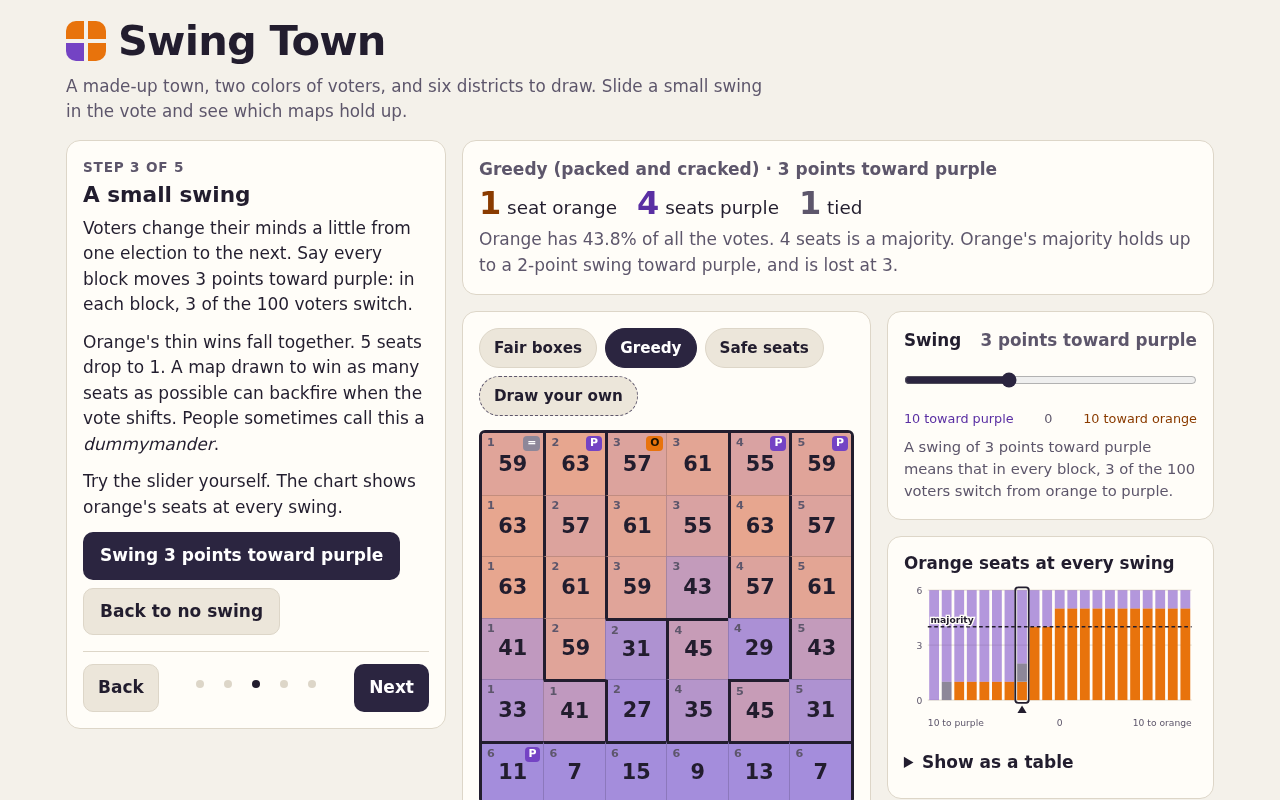
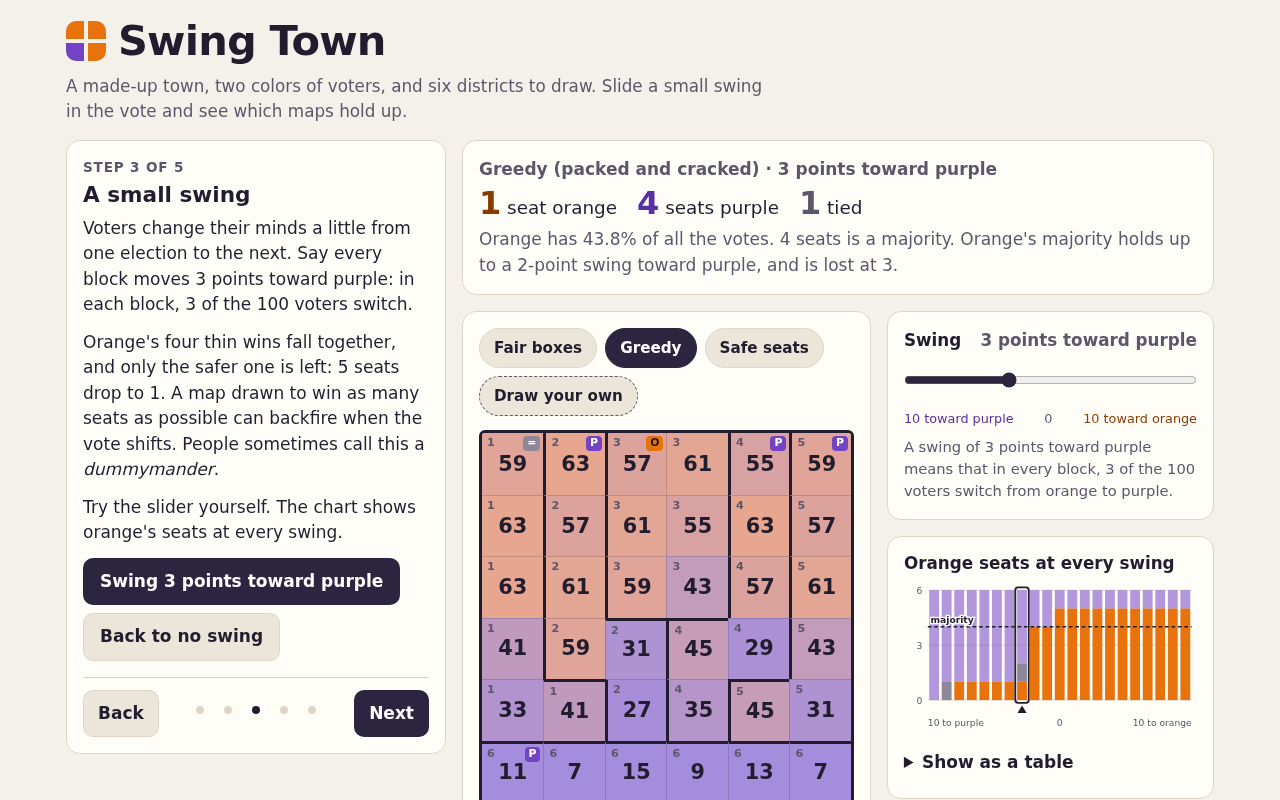
Fix review findings: focus follows pointer painting, no results for unfinished maps, one-page print with framing first, margin wording
- Pointer painting moves real focus (preventScroll) and the roving tab stop to the
  painted block; keys act on the focused block.
- The grid's accessible name says an unfinished map has no results yet.
- Print: framing box right under the heading; compact district table; seats table
  in two halves. Fits one page on A4 and US Letter at swing 0 and -5.
- Wording: four thin wins and one safer win; less than four points above half;
  at least ten points above half.
- pnpm e2e: Playwright checks for mixed mouse+keyboard input, the unfinished-map
  label and PDF page counts (local only, not in CI).

Changed region(s): [[0.0625, 0.4062, 0.3438, 0.9375], [0.2188, 0.8125, 0.3438, 0.9375]]

diff --git a/src/main.ts b/src/main.ts
@@ -89,8 +89,8 @@ const STEPS: Step[] = [
   {
     title: "A greedy map",
     body: () => `
-      <p>Same town, same voters, new lines. This map packs as many purple voters as it can into one district along the bottom, then cracks the rest so orange wins every other district by a hair.</p>
-      <p>Now orange wins ${seatsOf("greedy")} of 6 seats with less than half the votes. Look at the district list: most of orange's wins are under 54%.</p>`,
+      <p>Same town, same voters, new lines. This map packs as many purple voters as it can into one district along the bottom, then cracks the rest. Orange gets four thin wins and one safer win.</p>
+      <p>Now orange wins ${seatsOf("greedy")} of 6 seats with less than half the votes. Look at the district list: four of its five wins are less than four points above half.</p>`,
     actions: [{ label: "Show the greedy map", run: () => show("greedy") }],
     enter: () => show("greedy"),
   },
@@ -98,7 +98,7 @@ const STEPS: Step[] = [
     title: "A small swing",
     body: () => `
       <p>Voters change their minds a little from one election to the next. Say every block moves 3 points toward purple: in each block, 3 of the 100 voters switch.</p>
-      <p>Orange's thin wins fall together. ${seatsOf("greedy")} seats drop to ${seatsOf("greedy", -3)}. A map drawn to win as many seats as possible can backfire when the vote shifts. People sometimes call this a <i>dummymander</i>.</p>
+      <p>Orange's four thin wins fall together, and only the safer one is left: ${seatsOf("greedy")} seats drop to ${seatsOf("greedy", -3)}. A map drawn to win as many seats as possible can backfire when the vote shifts. People sometimes call this a <i>dummymander</i>.</p>
       <p>Try the slider yourself. The chart shows orange's seats at every swing.</p>`,
     actions: [
       { label: "Swing 3 points toward purple", run: () => show("greedy", -3) },
@@ -109,7 +109,7 @@ const STEPS: Step[] = [
   {
     title: "Safe seats",
     body: () => `
-      <p>This map asks for less. Orange's voters are kept together in the top three rows, so orange wins only ${seatsOf("safe")} seats, but each by about 10 points or more.</p>
+      <p>This map asks for less. Orange's voters are kept together in the top three rows, so orange wins only ${seatsOf("safe")} seats, but each is at least ten points above half.</p>
       <p>Slide the swing all the way to 10 points toward purple. Orange still has ${seatsOf("safe", -MAX_SWING)} seats. Fewer seats, but they hold.</p>`,
     actions: [
       { label: "Show the safe seats map", run: () => show("safe") },
@@ -220,6 +220,11 @@ function renderGrid(valid: boolean) {
   grid.classList.toggle("is-drawing", state.drawing);
   if (state.drawing) {
     grid.setAttribute("aria-label", "Map of Swing Town. Paint blocks to draw districts.");
+  } else if (!valid) {
+    grid.setAttribute(
+      "aria-label",
+      "Map of Swing Town. This map isn't finished, so there are no results yet. The list below says what to fix.",
+    );
   } else {
     const s = seats(TOWN, state.map, state.swing);
     grid.setAttribute(
@@ -287,16 +292,33 @@ grid.addEventListener("pointerdown", (e) => {
   } catch {
     /* not supported everywhere (jsdom) */
   }
-  const i = Number(el.dataset.i);
-  state.focusCell = i;
-  paintCell(i);
-  render();
+  selectCell(Number(el.dataset.i));
+  paintCell(state.focusCell);
 });
 
 grid.addEventListener("pointermove", (e) => {
   if (!painting || !state.drawing) return;
   const i = cellFromPoint(e.clientX, e.clientY);
-  if (i !== null) paintCell(i);
+  if (i === null) return;
+  if (i !== state.focusCell) selectCell(i);
+  paintCell(i);
+});
+
+/**
+ * Make block i the keyboard spot: the roving tab stop and real DOM focus move
+ * together, so keys always act on the block that has focus.
+ */
+function selectCell(i: number) {
+  state.focusCell = i;
+  cells.forEach((c, k) => (c.tabIndex = k === i ? 0 : -1));
+  cells[i].focus({ preventScroll: true });
+}
+
+// Focus can also arrive by Tab or a screen reader's own navigation: follow it.
+grid.addEventListener("focusin", (e) => {
+  if (!state.drawing) return;
+  const el = (e.target as HTMLElement).closest<HTMLElement>(".cell");
+  if (el) state.focusCell = Number(el.dataset.i);
 });
 
 const stopPainting = () => {
@@ -308,6 +330,9 @@ grid.addEventListener("lostpointercapture", stopPainting);
 
 grid.addEventListener("keydown", (e) => {
   if (!state.drawing) return;
+  // Act on the block that actually has focus.
+  const focused = (e.target as HTMLElement).closest?.<HTMLElement>(".cell");
+  if (focused && grid.contains(focused)) state.focusCell = Number(focused.dataset.i);
   const i = state.focusCell;
   const r = Math.floor(i / TOWN.cols);
   const c = i % TOWN.cols;
@@ -533,22 +558,25 @@ function renderPrint(valid: boolean, problems: string[]) {
       return `<div class="pcell ${borderClasses(state.map, i)}"><span class="dno">${d === null ? "" : d + 1}</span><span class="num">${v}</span></div>`;
     })
     .join("");
+  const cellText = (share: number, w: Parameters<typeof winnerLabel>[0]) => `${pct(share)} orange · ${winnerLabel(w)}`;
   const districtRows = results0
     .map((r, k) => {
       const s = resultsS[k];
       const cols = valid
-        ? `<td>${pct(r.orangeShare)}</td><td>${winnerLabel(r.winner)}</td>${withSwing ? `<td>${pct(s.orangeShare)}</td><td>${winnerLabel(s.winner)}</td>` : ""}`
-        : `<td colspan="${withSwing ? 4 : 2}">${r.blocks} of ${SIZE} blocks</td>`;
+        ? `<td>${cellText(r.orangeShare, r.winner)}</td>${withSwing ? `<td>${cellText(s.orangeShare, s.winner)}</td>` : ""}`
+        : `<td colspan="${withSwing ? 2 : 1}">${r.blocks} of ${SIZE} blocks</td>`;
       return `<tr><th scope="row">District ${r.district + 1}</th>${cols}</tr>`;
     })
     .join("");
-  const head = `<tr><th scope="col">District</th><th scope="col">Orange share, no swing</th><th scope="col">Winner, no swing</th>${withSwing ? `<th scope="col">Orange share, ${swingLabel(state.swing).toLowerCase()}</th><th scope="col">Winner</th>` : ""}</tr>`;
+  const head = `<tr><th scope="col">District</th><th scope="col">No swing</th>${withSwing ? `<th scope="col">${swingLabel(state.swing)}</th>` : ""}</tr>`;
   const s0 = seats(TOWN, state.map, 0);
+  const curve = seatCurve(TOWN, state.map);
   $("print-sheet").innerHTML = `
     <header class="p-head">
       <h1>Swing Town</h1>
       <p>Map: <b>${mapName()}</b>. ${valid ? `With no swing, orange wins ${s0.orange} of 6 seats and purple wins ${s0.purple}${s0.tie ? ` (${s0.tie} tied)` : ""}.` : "This map isn't finished yet."}</p>
     </header>
+    <p class="p-frame">Swing Town is a made-up town, and orange and purple aren't parties. The uniform swing is a simplification, not a model of real elections. An unofficial companion to the gerrymandering puzzle from the Julia Robinson Mathematics Festival (${JRMF_PUZZLE_URL}), not made by or affiliated with JRMF.</p>
     <div class="p-top">
       <div class="p-map">
         <div class="pgrid">${cellsHtml}</div>
@@ -561,8 +589,11 @@ function renderPrint(valid: boolean, problems: string[]) {
         <p class="p-note">A swing of 3 points toward purple means that in every block, 3 of the 100 voters switch from orange to purple. A district needs more than half its votes to win. Exactly half is a tie.</p>
       </div>
     </div>
-    ${valid ? `<h2>Seats at every swing</h2>${curveTableHtml(seatCurve(TOWN, state.map), null)}` : ""}
-    <p class="p-foot">Swing Town is a made-up town; orange and purple aren't parties. The uniform swing is a simplification, not a model of real elections. An unofficial companion to the gerrymandering puzzle from the Julia Robinson Mathematics Festival (${JRMF_PUZZLE_URL}), not made by or affiliated with JRMF.</p>`;
+    ${
+      valid
+        ? `<h2>Seats at every swing</h2><div class="p-curve">${curveTableHtml(curve.filter((p) => p.swing <= 0), null)}${curveTableHtml(curve.filter((p) => p.swing > 0), null)}</div>`
+        : ""
+    }`;
 }
 
 function render() {

diff --git a/src/app.ui.test.ts b/src/app.ui.test.ts
@@ -166,10 +166,41 @@ describe("Swing Town page", () => {
     expect(sheet.querySelectorAll(".pcell")).toHaveLength(36);
     expect(sheet.textContent).toContain("Map: Your own map");
     expect(sheet.textContent).toContain("Seats at every swing");
-    expect(sheet.querySelectorAll("table.curve")).toHaveLength(2);
+    // the district table, then seats at every swing split in two halves (-10..0 and 1..10)
+    expect(sheet.querySelectorAll("table.curve")).toHaveLength(3);
+    expect(sheet.querySelectorAll(".p-curve tbody tr")).toHaveLength(21);
+    // the framing comes right after the heading, before the worksheet
+    expect(sheet.children[1].className).toBe("p-frame");
+    expect(sheet.textContent).toContain("5 points toward purple");
     // the printed map shows the numbers before any swing
     expect(sheet.querySelector(".pcell .num")!.textContent).toBe("62");
     expect(sheet.textContent).toContain("not made by or affiliated with JRMF");
+  });
+
+  it("doesn't announce results for an unfinished map", () => {
+    click($("clear-map"));
+    click($("draw-done"));
+    const label = $("grid").getAttribute("aria-label")!;
+    expect(label).toContain("isn't finished");
+    expect(label).not.toMatch(/wins|tied/);
+    expect(text("seats")).toContain("Map not finished");
+    // unequal sizes: district 1 gets 7 blocks, district 6 only 5
+    click($("draw-toggle"));
+    paintMap(["111223", "111233", "444223", "444253", "666553", "666555"]);
+    pickDistrict(1);
+    pointerDown(cells()[30]); // a district 6 block: sizes become 7 and 5
+    click($("draw-done"));
+    expect(text("problems")).toContain("District 1 has 7 blocks");
+    const label2 = $("grid").getAttribute("aria-label")!;
+    expect(label2).toContain("isn't finished");
+    expect(label2).not.toMatch(/wins|tied/);
+    expect(text("district-list")).not.toContain("wins");
+    // put it back for the next test
+    click($("draw-toggle"));
+    pickDistrict(6);
+    pointerDown(cells()[30]);
+    click($("draw-done"));
+    expect($("grid").getAttribute("aria-label")).toContain("Orange wins 4 seats");
   });
 
   it("stops painting when drawing is done", () => {

diff --git a/src/logic/presets.ts b/src/logic/presets.ts
@@ -44,13 +44,13 @@ export const PRESETS: readonly Preset[] = [
   {
     id: "greedy",
     name: "Greedy (packed and cracked)",
-    blurb: "Purple voters are packed into one district, and the rest are cracked so orange just barely wins five.",
+    blurb: "Purple voters are packed into one district, and the rest are cracked so orange gets four thin wins and one safer win.",
     map: parseMap(["123345", "123345", "123345", "122445", "112455", "666666"]),
   },
   {
     id: "safe",
     name: "Safe seats",
-    blurb: "Orange voters are kept together, so orange wins three districts by a lot and lets purple win the other three.",
+    blurb: "Orange voters are kept together, so orange wins three districts, each at least ten points above half, and lets purple win the other three.",
     map: parseMap(["111111", "222222", "333333", "444444", "555555", "666666"]),
   },
 ];

diff --git a/src/style.css b/src/style.css
@@ -855,8 +855,7 @@ table.curve {
     color: #444;
   }
   .p-legend,
-  .p-note,
-  .p-foot {
+  .p-note {
     font-size: 8.5pt;
     color: #333;
   }
@@ -872,9 +871,17 @@ table.curve {
     margin-top: 0;
     break-inside: avoid;
   }
-  .print-sheet > table.curve {
-    width: auto;
-    min-width: 120mm;
+  .p-frame {
+    font-size: 9.5pt;
+    border: 1pt solid #000;
+    padding: 4pt 7pt;
+    margin: 0 0 8pt;
+  }
+  .p-curve {
+    display: grid;
+    grid-template-columns: 1fr 1fr;
+    gap: 8mm;
+    align-items: start;
   }
   .print-sheet .curve th,
   .print-sheet .curve td {

diff --git a/README.md b/README.md
@@ -9,12 +9,12 @@ A classroom toy for the gerrymandering puzzle: draw districts in a made-up town,
 - **A made-up town.** 36 blocks in a 6 by 6 grid, 100 voters in each. The number on a block is how many vote orange; the rest vote purple. Orange and purple are just colors, never parties, and the town isn't a real place.
 - **Three ready-made maps** of the same town, each with 6 districts of 6 blocks:
   - *Fair boxes:* plain boxes. Orange has 46.8% of the votes and wins 3 of 6 seats.
-  - *Greedy (packed and cracked):* purple voters packed into one district, the rest cracked so orange wins 5 of 6, four of them by less than 4 points.
-  - *Safe seats:* orange's voters kept together, so orange wins only 3 seats, each by about 10 points or more.
+  - *Greedy (packed and cracked):* purple voters packed into one district, the rest cracked so orange wins 5 of 6: four thin wins, each less than four points above half, and one safer win.
+  - *Safe seats:* orange's voters kept together, so orange wins only 3 seats, each at least ten points above half.
 - **Draw your own map** by picking a district and tapping or dragging across blocks (or with the keyboard). It checks that every block is in a district, every district has exactly 6 blocks, and each district joins up side to side, and says in plain words what to fix.
 - **A swing slider** from 10 points toward purple to 10 points toward orange. Every block and district is re-scored live, with seats per color and a chart (and table) of orange's seats at every swing for the current map.
 - **A five-step story** for a class: meet the town, the greedy map, a 3-point swing that takes the greedy map from 5 seats to 1, the safe map that holds even at 10 points, and a challenge: draw a map that keeps a majority for orange (4 of 6) even after a 5-point swing toward purple. None of the ready-made maps meets it; a hint is there for anyone stuck.
-- **Print this map:** a one-page printout of the current map (numbers before any swing, district numbers, thick borders), each district's result, and a table of seats at every swing, to use alongside the paper puzzle.
+- **Print this map:** a one-page printout (checked on A4 and US Letter), with the made-up-town and JRMF framing at the top, of the current map (numbers before any swing, district numbers, thick borders), each district's result, and a table of seats at every swing, to use alongside the paper puzzle.
 
 Works from 375px wide with touch, mouse or keyboard, follows your system's light or dark mode, has visible keyboard focus, and respects "reduce motion". Nothing you draw is uploaded or saved. No account, no cookies, no analytics scripts, no third-party scripts, and no tracking by the app. Like any website's host, Vercel keeps request logs that can include IP addresses and referring sites. We only look at weekly totals of requests to load the app, grouped by referring site, to see whether people find it. We don't look at individual requests.
 
@@ -45,6 +45,8 @@ pnpm check     # typecheck + tests
 pnpm build     # production build into dist/
 pnpm preview   # serve the build
 ```
+
+`pnpm e2e` builds the app and runs real-browser checks with Playwright (`e2e/run.mjs`): mixed mouse and keyboard painting keeps focus on the edited block, an unfinished map announces no results, and the printout fits one page on A4 and US Letter for several maps at no swing and at 5 points toward purple. It isn't run in CI. It needs a Chromium: set `CHROMIUM_PATH`, or run `pnpm exec playwright-core install chromium` once.
 
 - `src/logic/town.ts`: swing, district results, ties, seats, the seats-vs-swing curve, map checks and their plain-language messages, the challenge check.
 - `src/logic/presets.ts`: the town and the three ready-made maps.
